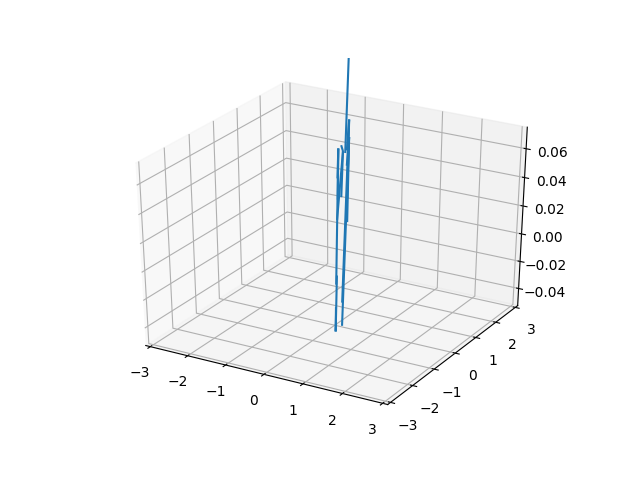
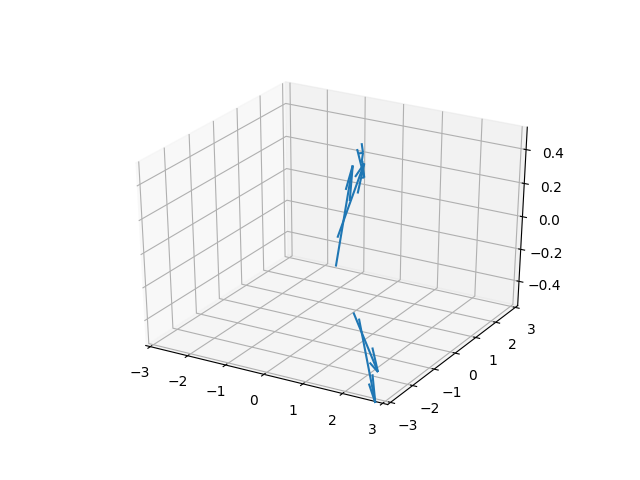
Using PCA to get dimensions now

diff --git a/word2blank/ongoing/word2vec-symplectic/visualizer/visualizer.py b/word2blank/ongoing/word2vec-symplectic/visualizer/visualizer.py
@@ -1,6 +1,7 @@
 import matplotlib.pyplot as plt
 from gensim.models.keyedvectors import KeyedVectors
 import numpy as np
+from sklearn.decomposition import PCA
 import gensim
 from tqdm import tqdm
 from mpl_toolkits.mplot3d import Axes3D
@@ -10,11 +11,21 @@ def load_embedding(fpath, x, wordlist):
     print("Loading embeddings...")
     emb = dict()
     wv_from_bin = KeyedVectors.load_word2vec_format(fpath, binary=x)
-    vs = np.array([wv_from_bin.get_vector(w) for w in wordlist])
-    # for word, vector in tqdm(zip(wv_from_bin.vocab, wv_from_bin.vectors)):
-    #    coefs = np.asarray(vector, dtype='float32')
-    #    if word not in emb:
-    #        emb[word] = coefs
+    embs = np.array([wv_from_bin.get_vector(w) for w in wordlist])
+    vpos, vmom  = np.hsplit(embs, 2)
+    vpos = np.corrcoef(vpos)
+    vmom = np.corrcoef(vmom)
+    posval, posvec = np.linalg.eig(vpos)
+    momval, momvec = np.linalg.eig(vmom)
+    ixs = np.argsort(-posval)
+    posval = posvec[ixs]
+    posvec = posvec[:, ixs]
+    pca_posvec = posvec[:, :3]
+    ixs = np.argsort(-momval)
+    momval = momvec[ixs]
+    momvec = momvec[:, ixs]
+    pca_momvec = momvec[:, :3]
+    vs = np.concatenate((pca_posvec, pca_momvec), axis=1)
     return vs
 
 
